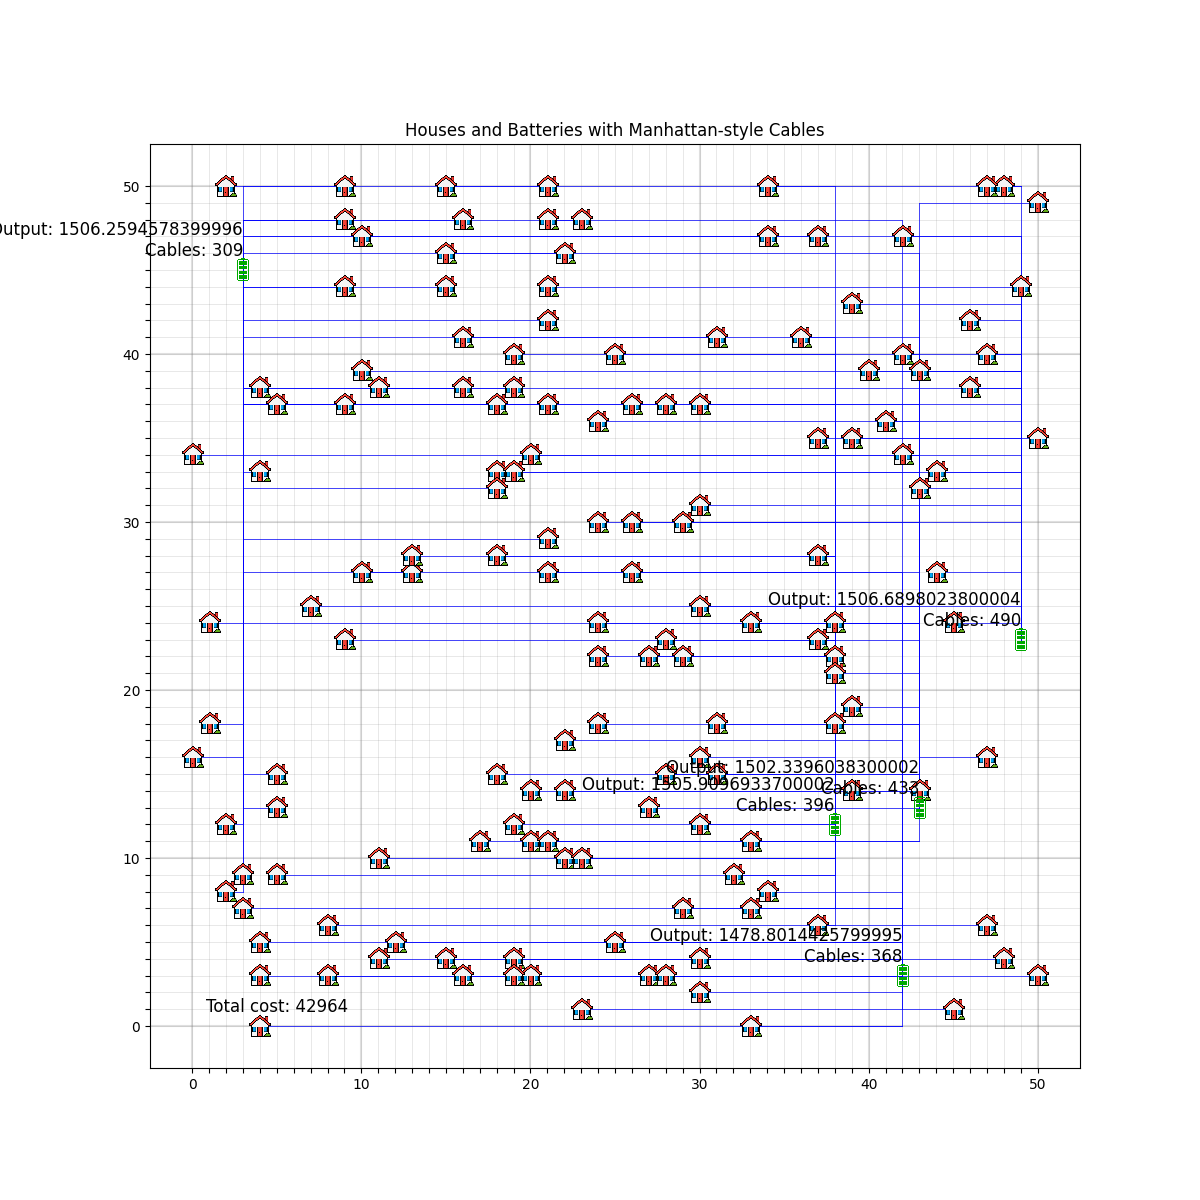
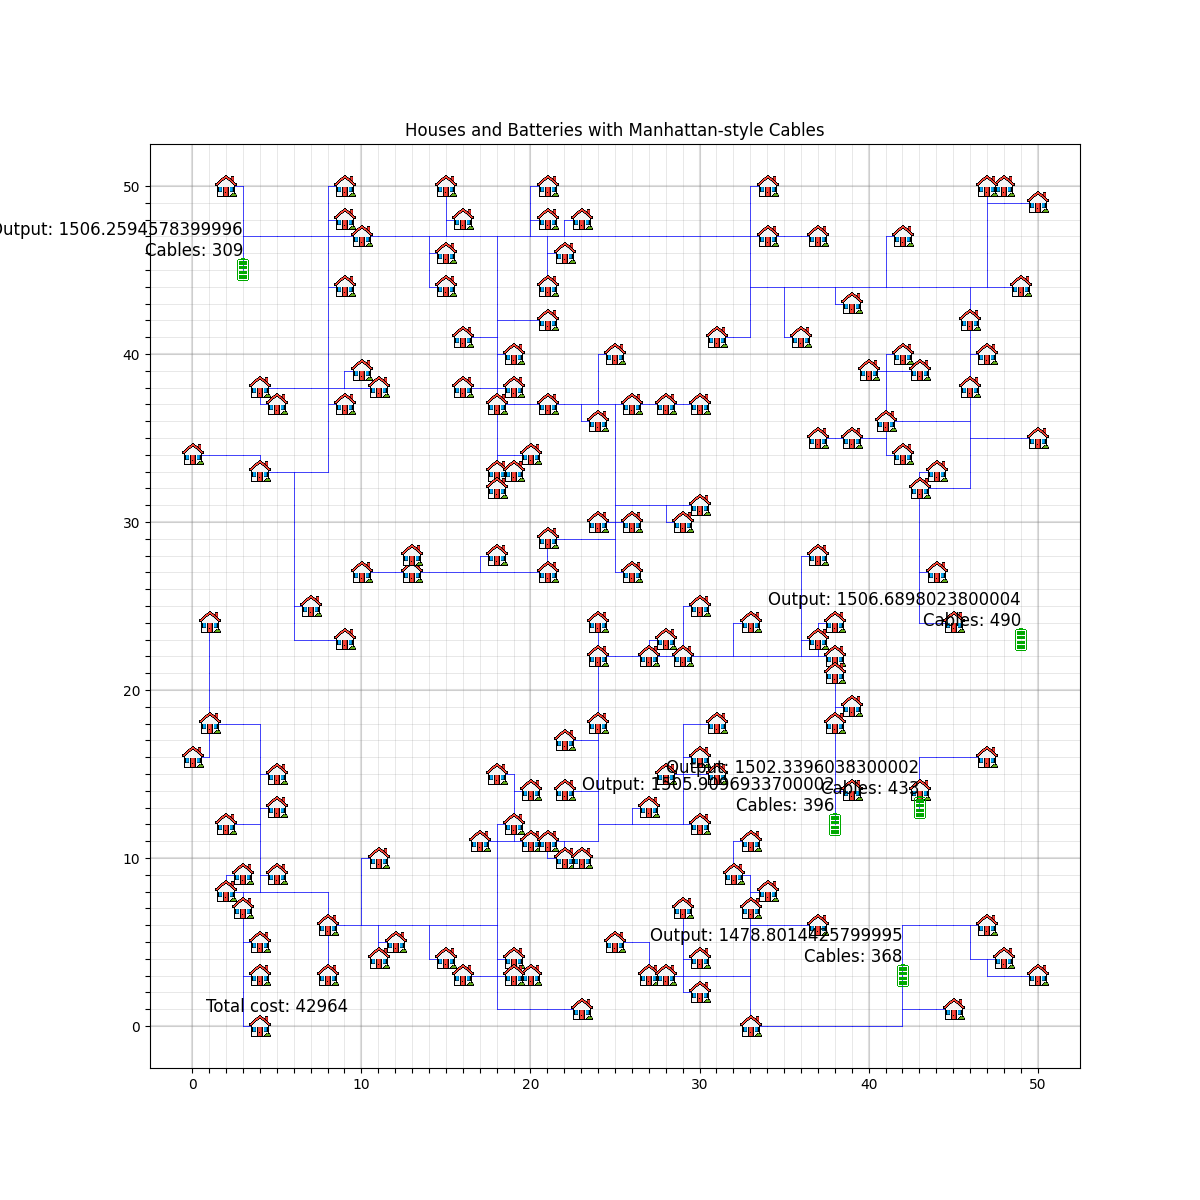
astar implementation added

Changed region(s): [[0.74, 0.3083, 0.7708, 0.3392], [0.6783, 0.3083, 0.7092, 0.3392], [0.4933, 0.3083, 0.5242, 0.3392]]

diff --git a/code/algorithm/astar.py b/code/algorithm/astar.py
@@ -1,5 +1,3 @@
-import heapq 
-
 class A_star:
     def __init__(self, district):
         self.district = district
@@ -7,23 +5,23 @@ class A_star:
     def distance(self, house, battery):
         ''' Function that calculates the Manhattan distance between a house and a battery'''
         return abs(battery.x - house.x) + abs(battery.y - house.y)
-
     def connect_houses_to_batteries(self):
-            for house in self.district.houses:
-                # Use battery ID as a tie-breaker
-                queue = [(self.distance(house, battery), battery.x, battery) for battery in self.district.batteries]
-                heapq.heapify(queue)
+        for house in self.district.houses:
+            # maak een lijst met de batterijen en hun afstand t.o.v huis
+            batteries_sorted = [(self.distance(house, battery), battery.x, battery) for battery in self.district.batteries]
+ 
+            # Sort batteries weer op afstand
+            batteries_sorted.sort()
 
-                while queue:
-                    current_distance, _, battery = heapq.heappop(queue)
+            # Loop door de batterijen heen en kijk of het huis verbonden kan worden
+            for h, d, battery in batteries_sorted:
+                if battery.can_connect(house):
+                    self.place_cables(house, battery)
+                    battery.connect_house(house)
+                    break
+            else:
+                print(f"House at ({house.x}, {house.y}) could not be connected to any battery.")
 
-                    if battery.can_connect(house):
-                        self.place_cables(house, battery)
-                        battery.connect_house(house)
-                        break
-                else:
-                    print(f"House at ({house.x}, {house.y}) could not be connected to any battery.")
-                    
     def place_cables(self, house, battery):
         ''' Function that places cables between house and battery'''
 
